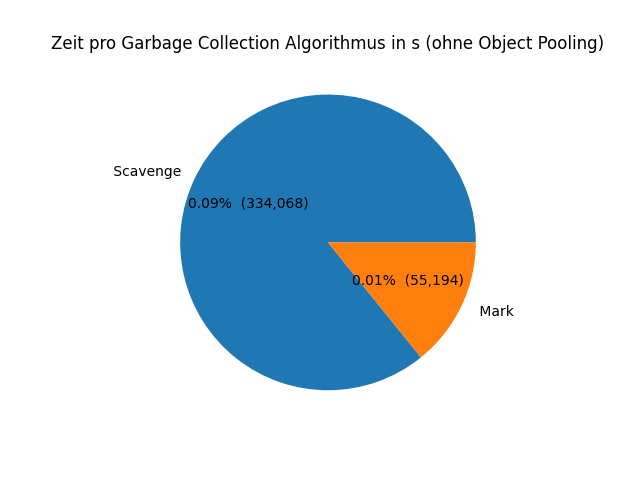
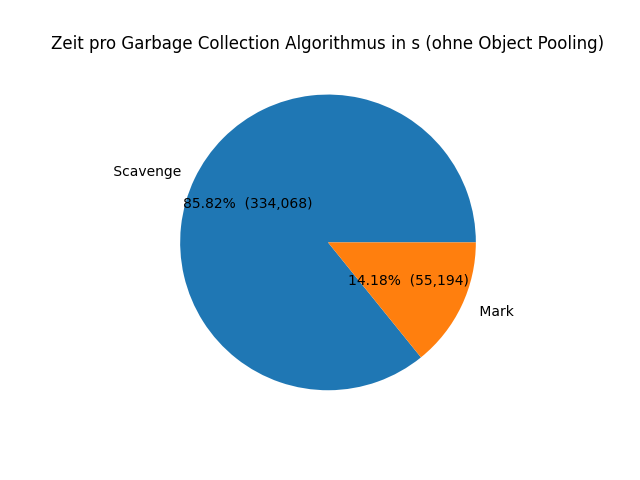
fix percentage values

Changed region(s): [[0.5312, 0.5625, 0.75, 0.5938], [0.2812, 0.4062, 0.5, 0.4375]]

diff --git a/garbage-collection/parse-and-plot-json.py b/garbage-collection/parse-and-plot-json.py
@@ -50,12 +50,12 @@ def plot(parsed_gc_data, parsed_op_data):
 	# Export gc distribution gc
 	plt.figure()
 	plt.title('Zeit pro Garbage Collection Algorithmus in s (ohne Object Pooling)')
-	plt.pie(gc_breakdown_dict.values(), labels=gc_breakdown_dict.keys(), autopct=lambda p : '{:.2f}%  ({:,.0f})'.format(p/1000,p * sum(gc_breakdown_dict.values())/100))
+	plt.pie(gc_breakdown_dict.values(), labels=gc_breakdown_dict.keys(), autopct=lambda p : '{:.2f}%  ({:,.0f})'.format(p,p * sum(gc_breakdown_dict.values())/100))
 	plt.savefig('exports/gc_gc_breakdown')
 	# Export gc distribution op 
 	plt.figure()
 	plt.title('Zeit pro Garbage Collection Algorithmus in s (mit Object Pooling)')
-	plt.pie(op_breakdown_dict.values(), labels=op_breakdown_dict.keys(), autopct=lambda p : '{:.2f}%  ({:,.0f})'.format(p/1000,p * sum(op_breakdown_dict.values())/100))
+	plt.pie(op_breakdown_dict.values(), labels=op_breakdown_dict.keys(), autopct=lambda p : '{:.2f}%  ({:,.0f})'.format(p,p * sum(op_breakdown_dict.values())/100))
 	plt.savefig('exports/op_gc_breakdown')
 
 
